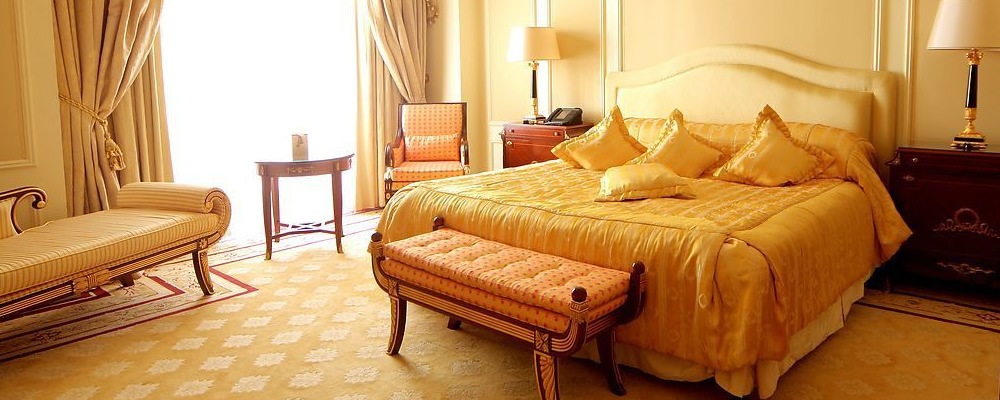
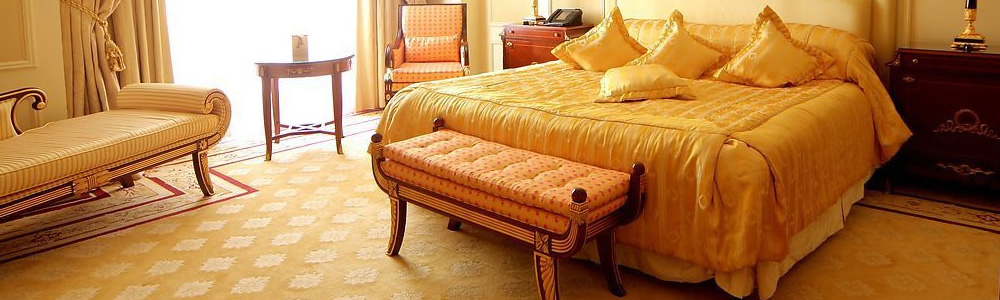
remove showcase; use slider;

diff --git a/scripts/jquery.sliderkit.1.9.2.min.js b/scripts/jquery.sliderkit.1.9.2.min.js
@@ -1,0 +1,30 @@
+(function(b){SliderKit=function(){var a=this;this._init=function(c,d){this.options=b.extend({},this._settings,d);this.cssNames={selected:this.options.cssprefix+"-selected",panel:this.options.cssprefix+"-panel",panels:this.options.cssprefix+"-panels",panelActive:this.options.cssprefix+"-panel-active",panelOld:this.options.cssprefix+"-panel-old",panelsWrapper:this.options.cssprefix+"-panels-wrapper",nav:this.options.cssprefix+"-nav",navClip:this.options.cssprefix+"-nav-clip",navBtn:this.options.cssprefix+
+"-nav-btn",navPrev:this.options.cssprefix+"-nav-prev",navNext:this.options.cssprefix+"-nav-next",btnDisable:this.options.cssprefix+"-btn-disable",btnPause:this.options.cssprefix+"-pause-btn",goPrev:this.options.cssprefix+"-go-prev",goNext:this.options.cssprefix+"-go-next",playBtn:this.options.cssprefix+"-play-btn",goBtns:this.options.cssprefix+"-go-btn"};this.domObj=b(c);this.panels=b("."+this.cssNames.panel,this.domObj);this.allItems=this.panels.size();this.nav=b("."+this.cssNames.nav,this.domObj);
+this.navClip=b("."+this.cssNames.navClip,this.nav);this.arePanels=0<this.allItems?1:0;this.isNavClip=0<this.navClip.size()?1:0;this.arePanels||this.isNavClip||this._errorReport("Error #01",this.options.debug,1);this.domObjHeight=this.domObj.height();this.domObjWidth=this.domObj.width();this.domObjHeight||this.options.freeheight||(this.domObjHeight=this.options.height,this.domObj.css("height",this.domObjHeight),this._errorReport("Error #02",this.options.debug,0));this.domObjWidth||(this.domObjWidth=
+this.options.width,this.domObj.css("width",this.domObjWidth),this._errorReport("Error #02",this.options.debug,0));this.domObj.css("display","block");this.newId=this.prevId=this.currId=0;this.currPanel=null;this.prevPanelStill=this.prevPanel=0;this.firstTime=1;this.scrollActive=0;this.isPlaying=null;this.changeOngoing=!1;this.currLine=1;this.animating=!1;this.panelAnteFns=[];this.panelPostFns=[];this.navAnteFns=[];this.navPostFns=[];this.runningScope=this.nav;this.isNavClip&&this._buildNav();this._buildControls();
+this.arePanels&&(this.panelsBag=b("."+this.cssNames.panels,this.domObj),"sliding"==this.options.panelfx&&this._wrapPanels());this.lineScrollDo=this.arePanels?0:1;this.options.mousewheel&&this.domObj.mousewheel(function(c,d){0<d?a.stepBackward():a.stepForward();return!1});this.options.keyboard&&this.domObj.keyup(function(c){37==c.keyCode?a.stepBackward():39==c.keyCode&&a.stepForward()});this.options.panelclick&&this.arePanels&&this.panelsBag.click(function(){a.stepForward();return!1});this.startId=
+this.options.start>=this.allItems?this.allItems-1:0>this.options.start?0:this.options.start;if(this.options.counter)try{this.Counter()}catch(g){this._errorReport(g,this.options.debug,0)}if(this.imageFx)try{this.imageFx()}catch(f){this._errorReport(f,this.options.debug,0)}if(this.options.delaycaptions)try{this.DelayCaptions(this.options.delaycaptions)}catch(e){this._errorReport(e,this.options.debug,0)}this.changeWithId(this.startId,null);this.options.auto&&(this.autoScrollStart(),this._autoScrollHoverStop());
+if(this.options.timer)try{this.Timer(this.options.timer)}catch(h){this._errorReport(h,this.options.debug,0)}this.arePanels&&!this.options.fastchange&&(this.runningScope=this.domObj.find("."+this.cssNames.panels,"."+this.cssNames.nav));return this};this._settings={cssprefix:"sliderkit",width:500,height:350,start:0,auto:!0,autospeed:4E3,autostill:!1,mousewheel:!1,keyboard:!1,circular:!1,shownavitems:5,navitemshover:!1,navclipcenter:!1,navcontinuous:!1,navscrollatend:!1,navpanelautoswitch:!0,navfx:"sliding",
+navfxbefore:function(){},navfxafter:function(){},scroll:null,scrollspeed:600,scrolleasing:null,panelfx:"fading",panelfxspeed:700,panelfxeasing:null,panelfxfirst:"none",panelfxbefore:function(){},panelfxafter:function(){},panelbtnshover:!1,panelclick:!1,verticalnav:!1,verticalslide:!1,tabs:!1,freeheight:!1,fastchange:!0,counter:!1,delaycaptions:!1,timer:!1,imagefx:!1,debug:!1};this._errorReport=function(a,d,b){d&&alert("Slider Kit error!\nMessage = "+a+" (see doc for details)\nElement id = "+this.domObj.attr("id")+
+"\nElement class = "+this.domObj.attr("class"));if(b)return!1};this._autoScrollHoverStop=function(){this.isPlayBtn||this.options.autostill||this.domObj.hover(function(){null!=a.isPlaying&&a.autoScrollStop()},function(){a.autoScrollStart()});this.options.autostill&&this.domObj.mouseleave(function(){null==a.isPlaying&&a.autoScrollStart()})};this._buildNav=function(){this.navUL=b("ul",this.navClip);this.navLI=b("li",this.navUL);this.navLINum=this.navLI.size();this.arePanels&&(this.navLINum!=this.allItems&&
+1==this.nav.size())&&this._errorReport("Error #03",this.options.debug,1);if(this.options.tabs)this.options.shownavitems=this.allItems;else{var c=function(c){attrVal=a.navLI.css(c);return"auto"!=attrVal&&""!=c&&"0px"!=c?parseInt(attrVal):0},d=this.options.verticalnav?this.nav.height():this.nav.width(),g=this.navLI.outerWidth(!0),f=this.navLI.outerHeight(!0),e=c("margin-left")+c("margin-right"),c=c("margin-top")+c("margin-bottom");this.allItems=this.navLINum;this.options.shownavitems>this.allItems&&
+(this.options.shownavitems=this.navLINum);this.navLIsize=this.options.verticalnav?f:g;this.navULSize=this.navLIsize*this.navLINum;this.navClipSize=this.options.shownavitems*this.navLIsize-(this.options.verticalnav?c:e);this.cssPosAttr=this.options.verticalnav?"top":"left";e=this.options.verticalnav?"height":"width";this.navLI.css({width:this.navLI.width(),height:this.navLI.height()});this.navUL.css(e,this.navULSize+"px");this.navClip.css({width:this.options.verticalnav?g:this.navClipSize,height:this.options.verticalnav?
+this.navClipSize:f});this.options.navclipcenter&&this.navClip.css(this.cssPosAttr,(d-this.navClipSize)/2).css("margin","0");this.allItems>this.options.shownavitems&&(this.scrollActive=!0,null==this.options.scroll||0>this.options.scroll||this.options.scroll>this.allItems)&&(this.options.scroll=this.options.shownavitems);this.navBtns=b("."+this.cssNames.navBtn,this.nav);0<this.navBtns.size()&&this._buildNavButtons()}this.options.navitemshover&&this.arePanels?this.navLI.mouseover(function(){a.changeWithId(b("li",
+b(this).parent()).index(this),b(this))}):(this.arePanels||this.options.navscrollatend)&&this.navLI.click(function(){a.changeWithId(b("li",b(this).parent()).index(this),b(this));return!1})};this._buildNavButtons=function(){this.scrollActive?(this.scrollBtns=!0,this.navBtnPrev=b("."+this.cssNames.navPrev,this.nav),this.navBtnNext=b("."+this.cssNames.navNext,this.nav),this.navBtns.removeClass(this.cssNames.btnDisable),this.navBtnPrev.click(function(){a.navPrev();return!1}),this.navBtnNext.click(function(){a.navNext();
+return!1}),this.options.navcontinuous&&(this.navBtnPrev.mouseover(function(){a.navPrev(!0)}),this.navBtnNext.mouseover(function(){a.navNext(!0)}),this.navBtns.mouseout(function(){a.navStopContinuous()})),this.options.circular||this.navBtnPrev.addClass(this.cssNames.btnDisable)):this.navBtns.addClass(this.cssNames.btnDisable)};this._getNavPos=function(){this.navPos=this.options.verticalnav?this.navUL.position().top:this.navUL.position().left;this.LIbefore=Math.ceil(Math.abs(this.navPos)/this.navLIsize);
+this.LIafter=Math.floor((this.navULSize-Math.abs(this.navPos)-this.navClipSize)/this.navLIsize);0>this.LIafter&&(this.LIafter=0)};this._buildControls=function(){this.playBtn=b("."+this.cssNames.playBtn,this.domObj);this.gBtns=b("."+this.cssNames.goBtns,this.domObj);this.isPlayBtn=0<this.playBtn.size()?1:0;this.goBtns=0<this.gBtns.size()?1:0;this.isPlayBtn&&(this.options.auto&&this.playBtn.addClass(this.cssNames.btnPause),this.playBtn.click(function(){a.playBtn.hasClass(a.cssNames.btnPause)?a.playBtnPause():
+a.playBtnStart();return!1}));this.goBtns&&(this.goBtnPrev=b("."+this.cssNames.goPrev,this.domObj),this.goBtnNext=b("."+this.cssNames.goNext,this.domObj),this.options.panelbtnshover&&(this.gBtns.hide(),b("."+this.cssNames.panels,this.domObj).hover(function(){a.gBtns.fadeIn()},function(){a.gBtns.fadeOut()})),this.goBtnPrev.click(function(){a.stepBackward(b(this));return!1}),this.goBtnNext.click(function(){a.stepForward(b(this));return!1}))};this._wrapPanels=function(){0==b("."+this.cssNames.panelsWrapper,
+this.domObj).size()&&(this.panels.wrapAll('<div class="'+this.cssNames.panelsWrapper+'"></div>'),this.panelsWrapper=b("."+this.cssNames.panelsWrapper,this.panelsBag),this.panelsWrapper.css("position","relative"))};this._change=function(c,d,g,f,e){e&&null!=this.isPlaying&&(this.isPlayBtn&&this.playBtnPause(),this.options.autostill&&a.autoScrollStop());if(c&&c.hasClass(this.cssNames.btnDisable))return!1;e=0;if(!(0<b(":animated",this.runningScope).size()||this.animating)){this.prevId=this.currId;if(null==
+g&&!f)this.currId="-="==d?this.currId+1:this.currId-1;else if(null!=g){g=parseInt(g);this.currId=0>g?0:g>this.allItems-1?this.allItems-1:g;var h=c?c.parent().parent().hasClass(this.cssNames.navClip)?!1:!0:!0}this.goBtns&&this.gBtns.removeClass(this.cssNames.btnDisable);this.options.circular?this.scrollActive||(this.currId==this.allItems&&(this.currId=0),-1==this.currId&&(this.currId=this.allItems-1)):(-1==this.currId&&(this.currId=0,e=1),0==this.currId&&this.goBtns&&this.goBtnPrev.addClass(this.cssNames.btnDisable),
+this.currId==this.allItems&&(this.currId=this.allItems-1,e=1),this.currId==this.allItems-1&&(this.options.auto&&this.autoScrollStop(),this.goBtns&&this.goBtnNext.addClass(this.cssNames.btnDisable)));this.scrollActive&&!e&&this._setNavScroll(f,d,h);this.isNavClip&&this.selectThumbnail(this.currId);(!f||this.options.navpanelautoswitch)&&this.arePanels&&this._animPanel(this.currId,d);this.firstTime&&(this.firstTime=0)}};this._setNavScroll=function(a,d,b){this._getNavPos();var f=a?!0:!1,e=0;if(!a){a=
+Math.abs(this.currId+1-this.LIbefore);var h=this.options.shownavitems-a+1,k=0==this.currId||this.currId==this.allItems-1?1:0;!this.options.navscrollatend||1!=h&&1!=a||(this.firstTime||k)||(e=this.options.scroll-1,f=!0);if(0==h||0==a)f=!0;b&&(0>h&&(h=0),d=this.prevId<this.currId?"-=":"+=",b=Math.abs(this.prevId-this.currId),b-1>h&&"-="==d||b>a&&"+="==d)&&(e=b,f=!0);""==d&&(d=this.prevId!=this.currId||k?this.prevId<this.currId?"-=":"+=":"-="==this.scrollWay?"+=":"-=");this.scrollWay=d}if(f){f=0<e?e:
+this.options.scroll;e="-="==d?this.LIafter:this.LIbefore;f=e<f?e:f;e=f*this.navLIsize;this.newId="-="==d?this.LIbefore+f:this.LIbefore-f+this.options.shownavitems-1;if("-="==d&&this.newId>this.currId||"+="==d&&this.newId<this.currId)this.currId=this.newId;this.options.circular&&(0>=this.LIbefore&&"+="==d?(d="-=",this.currId=this.allItems-1,e=this.LIafter/this.options.scroll*this.navLIsize*this.options.scroll):0==this.LIafter&&"-="==d&&(d="+=",this.currId=0,e=Math.abs(this.navPos)));this._animNav(d,
+e)}};this._animPanel=function(c,d){this.currPanel=this.panels.eq(c);this.prevPanelStill=this.panels.eq(this.prevId);var g=function(){b.isFunction(a.options.panelfxafter)&&a.options.panelfxafter();a._runCallBacks(a.panelPostFns)};if(!this.currPanel.hasClass(this.cssNames.panelActive)){if(this.firstTime){this.panelTransition=this.options.panelfxfirst;var f=1}else{var e=this.options.freeheight&&"fading"==this.options.panelfx?"tabsfading":"none";this.panelTransition=this.options.freeheight?e:this.options.panelfx}b.isFunction(a.options.panelfxbefore)&&
+a.options.panelfxbefore();this._runCallBacks(this.panelAnteFns);this._panelTransitions[this.panelTransition](d,f,g)}};this._animNav=function(c,d){b.isFunction(a.options.navfxbefore)&&a.options.navfxbefore();a._runCallBacks(a.navAnteFns);this._navTransitions[this.options.navfx](c,d,function(){!a.options.circular&&a.scrollBtns&&(a.navBtns.removeClass(a.cssNames.btnDisable),a._getNavPos(),0>=a.LIbefore?a.navBtnPrev.addClass(a.cssNames.btnDisable):0>=a.LIafter&&a.navBtnNext.addClass(a.cssNames.btnDisable));
+a.scrollcontinue?setTimeout(function(){"-="==a.scrollcontinue?a.navPrev():a.navNext()},0):b.isFunction(a.options.navfxafter)&&a.options.navfxafter();a._runCallBacks(a.navPostFns)})};this._runCallBacks=function(a){b.each(a,function(a,c){b.isFunction(c)&&c()})};this._clearCallBacks=function(a){a.length=0};this._panelTransitions={none:function(c,b,g){a.panels.removeClass(a.cssNames.panelActive).hide();a.currPanel.addClass(a.cssNames.panelActive).show();g()},sliding:function(c,d,g){""==c&&(c=a.prevPanel<
+a.currId?"-=":"+=");a.prevPanel=a.currId;d="-="==c?"+":"-";var f=a.options.verticalslide?"top":"left",e=a.options.verticalnav?a.domObjHeight:a.domObjWidth;c="top"==f?{top:c+e}:{left:c+e};a.oldPanel=b("."+a.cssNames.panelOld,a.domObj);a.activePanel=b("."+a.cssNames.panelActive,a.domObj);a.panels.css(f,"0");a.oldPanel.removeClass(a.cssNames.panelOld).hide();a.activePanel.removeClass(a.cssNames.panelActive).addClass(a.cssNames.panelOld);a.currPanel.addClass(a.cssNames.panelActive).css(f,d+e+"px").show();
+a.panelsWrapper.stop(!0,!0).css(f,"0").animate(c,a.options.panelfxspeed,a.options.panelfxeasing,function(){g()})},fading:function(c,d,g){d?a.panels.hide():a.currPanel.css("display","none");b("."+a.cssNames.panelOld,a.domObj).removeClass(a.cssNames.panelOld);b("."+a.cssNames.panelActive,a.domObj).stop(!0,!0).removeClass(a.cssNames.panelActive).addClass(a.cssNames.panelOld);a.currPanel.addClass(a.cssNames.panelActive).animate({opacity:"show"},a.options.panelfxspeed,a.options.panelfxeasing,function(){g()})},
+tabsfading:function(c,b,g){a.panels.removeClass(a.cssNames.panelActive).hide();a.currPanel.fadeIn(a.options.panelfxspeed,function(){g()})}};this._navTransitions={none:function(c,b,g){a.navUL.css(a.cssPosAttr,("-="==c?a.navPos-b:a.navPos+b)+"px");g()},sliding:function(c,b,g){a.navUL.animate("left"==a.cssPosAttr?{left:c+b}:{top:c+b},a.options.scrollspeed,a.options.scrolleasing,function(){g()})}};this.playBtnPause=function(){this.playBtn.removeClass(this.cssNames.btnPause);this.autoScrollStop()};this.playBtnStart=
+function(){this.playBtn.addClass(a.cssNames.btnPause);this.autoScrollStart()};this.autoScrollStart=function(){var a=this;this.isPlaying=setInterval(function(){a._change(null,"-=",null,a.lineScrollDo,null)},a.options.autospeed)};this.autoScrollStop=function(){clearTimeout(this.isPlaying);this.isPlaying=null};this.changeWithId=function(a,b){this._change(b,"",a,0,1)};this.stepBackward=function(b){this._change(b,"+=",null,a.lineScrollDo,1)};this.stepForward=function(b){this._change(b,"-=",null,a.lineScrollDo,
+1)};this.navPrev=function(b){b&&(a.scrollcontinue="-=");this._change(this.navBtnPrev,"+=",null,1,1)};this.navNext=function(b){b&&(a.scrollcontinue="+=");this._change(this.navBtnNext,"-=",null,1,1)};this.navStopContinuous=function(){a.scrollcontinue=""};this.selectThumbnail=function(a){b("."+this.cssNames.selected,this.navUL).removeClass(this.cssNames.selected);this.navLI.eq(a).addClass(this.cssNames.selected)}};b.fn.sliderkit=function(a){return this.each(function(){b(this).data("sliderkit",(new SliderKit)._init(this,
+a))})}})(jQuery);

diff --git a/scripts/layout_header_script.js b/scripts/layout_header_script.js
@@ -65,89 +65,6 @@ $(function(){
 	$(window).bind('resize',function(){
 		if ($('#leftprolist').hasClass('fixed')) $('#leftprolist').css({left:$('#header').position().left-document.body.scrollLeft});
 	});
-	if ($("#main_case").length == 1) {
-		$.getJSON('/products/catelog.json', function(CAT){
-			window.CAT = CAT;
-			window.CASE = {};
-			var reset=function(){
-				$('#showcase').find('.subcaselist, .subcaselist2').addClass('hidden');
-				$('#showcase .showcase_details').fadeOut(200, function(){$(this).addClass('hidden');});
-				$('#showcase .bg').fadeTo(200, 1.0);
-				$('#main_case a').removeClass('current');
-				$('#main_case .indicator').removeClass('indicator_wht');
-			};
-			$('#main_case a').each(function(){
-				window.CASE[$(this).data('category')]=$(this).text();
-				$(this).click(function(){
-					return false;
-				});
-				$(this).hover(function(){
-					$('#main_case .indicator').removeClass('indicator_wht');
-					$('.indicator', this).addClass('indicator_wht');
-				});
-				$(this).hoverIntent(function(){
-					$('#showcase').css({'background-color':'#000'});
-					$('#showcase .bg').fadeTo(200, 0.5);
-					$('#main_case a').removeClass('current');
-					window.clearTimeout(window.sto);
-					window.clearTimeout(window.sto2);
-					window.clearTimeout(window.sto3);
-					var sublist=$('#showcase .subcaselist'), sublist2=$('#showcase .subcaselist2');
-					var cat=$(this).data('category');
-					sublist.empty();
-					sublist2.empty();
-					for (i=0; i<CAT[cat].length; i++) {
-						if (i==27) {
-							CAT[cat][i].name="More...";
-						} else if (i>27) {
-							break;
-						}
-						var alink=$('<a class="sd" data-image="'+CAT[cat][i].image+'" href="'+CAT[cat][i].link+'">'+CAT[cat][i].name+'</a>');
-						alink.hover(function(){
-							$('#main_case a[data-category="'+cat+'"]').addClass('current');
-						});
-						alink.hoverIntent(function(){
-							window.clearTimeout(window.sto);
-							window.clearTimeout(window.sto2);
-							window.clearTimeout(window.sto3);
-							$('#showcase .showcase_details').empty().append('<a href="'+$(this).attr('href')+'"><img src="{{ site.image_cdn }}/'+$(this).data('image')+'" /></a><h3>'+window.CASE[cat]+'<br />'+$(this).text()+'</h3>');
-							if ($('#showcase .showcase_details').hasClass('hidden')) {
-								$('#showcase .showcase_details').removeClass('hidden').hide().fadeIn(200);
-							}
-						}, function(){
-							window.sto2=window.setTimeout(reset, 1000);
-						});
-						$('<li />').append(alink).appendTo(i<14 ? sublist : sublist2);
-					}
-					sublist.removeClass('hidden').css({left: $('#main_case').position().left+$('#main_case').width()-5});
-					if (sublist2.children().length==0) {
-						sublist2.addClass('hidden');
-					} else {
-						sublist2.removeClass('hidden').css({left: sublist.position().left+sublist.width()-5});
-					}
-					var top=$(this).position().top;
-					if (top+sublist.height() > $('#showcase').height()) top = $('#showcase').height() - sublist.height() - 20;
-					if (top < 20) top=20;
-					sublist.css({top: top});
-					if (!$('#showcase .showcase_details').hasClass('hidden')) {
-						window.sto3=setTimeout(function(){
-							$('#showcase .showcase_details').fadeOut(200, function(){$(this).addClass('hidden');});
-						}, 1000);
-					}
-				}, function(){
-					//$(this).removeClass('current');
-					window.sto=window.setTimeout(function(){
-						var mainlisthovers=$('#main_case').find('a:hover').length;
-						var sublisthovers=$('#showcase').find('.subcaselist, .subcaselist2').find('a:hover').length;
-						if (mainlisthovers == 0 && sublisthovers == 0) {
-							reset();
-						}
-					}, 1000);
-				});
-				$(this).append('<div class="indicator"></div>');
-			});
-		});
-	}
 	if ($('.anchors').length>0) {
 		$('.clicktotop').bind('click',function(){window.location.hash='';window.scrollTo(0, 0);});
 		$(document).bind('ready scroll',function() {
@@ -170,6 +87,13 @@ $(function(){
 		});
 	}
 	$('.clicktolist').click(function(){location.href='/products/';});
+  
+  1 == $("#slider").length && $("#slider").sliderkit({
+      auto: !0,
+      circular: !0,
+      panelfx: "sliding",
+      autospeed: 5E3
+  });
 });
 function f_scrollTop() {
 	return f_filterResults (

diff --git a/css/layout_stylesheets.css b/css/layout_stylesheets.css
@@ -63,97 +63,7 @@ font-weight: bold;
 .nav ul li a:hover, .nav ul li a.current {
 color: #ed3237;
 }
-.showcase {
-width: 1000px;
-height: 400px;
-overflow: hidden;
-position: relative;
-}
-.showcase .bg {
-width: 1000px;
-height: 400px;
-overflow: hidden;
-background: url(../images/middlebg2.jpg) no-repeat 0 0;
-position: absolute;
-top: 0;
-left: 0;
-z-index: 1;
-}
-.showcase_list {
-width: 228px;
-list-style: none;
-box-shadow: 0 0 6px 1px #333;
-position: absolute;
-top: 20px;
-left: 20px;
-z-index: 10;
-}
-.showcase_list li {
-height: 26px;
-overflow: hidden;
-}
-.showcase_list a {
-display: block;
-background: url(../images/mgreygrad.png) repeat-x 0 0;
-height: 26px;
-line-height: 26px;
-text-indent: 10px;
-font-size: 14px;
-text-decoration: none;
-color: #000;
-opacity: 0.96;
-position: relative;
-}
-.showcase_list a:hover, .showcase_list a.current {
-background: #D71920;
-color: #fff;
-opacity: 1.0;
-}
-.showcase_list a div.indicator {
-background: url(../images/indicator.png) no-repeat 0 0;
-width: 8px;
-height: 8px;
-overflow: hidden;
-font-size: 0;
-position: absolute;
-top: 9px;
-left: 210px;
-}
-.showcase_list a div.indicator_wht, .showcase_list a.current div.indicator {
-background: url(../images/indicator_wht.png) no-repeat 0 0;
-}
-.subcaselist {
-z-index: 9;
-}
-.subcaselist a {
-text-indent: 15px;
-}
-.subcaselist2 {
-z-index: 8;
-}
-.subcaselist2 a {
-text-indent: 15px;
-}
-.showcase_details img {
-width: 240px;
-height: 240px;
-}
-.showcase_details h3 {
-font-size: 16px;
-}
-.showcase_details {
-position: absolute;
-top: 20px;
-left: 719px;
-padding: 10px;
-background: #FFF;
-box-shadow: 0 0 10px #333;
-text-align: center;
-opacity: 0.95;
-overflow: hidden;
-width: 240px;
-z-index: 3;
-}
+
 .divide {
 margin: 8px 0;
 }
@@ -589,3 +499,29 @@ filter:alpha(opacity=0);
 #toTop:active, #toTop:focus {
 outline:none;
 }
+/*sliderkit-core.css*/
+.photoslider-bullets{width:1000px;height:300px;}
+.photoslider-bullets .sliderkit-nav{position:absolute;top:275px;right:10px;}
+* html .photoslider-bullets .sliderkit-nav {right:auto;left:900px;}
+.photoslider-bullets .sliderkit-nav-clip ul li{float:left;margin:0 2px 0 0;}
+.photoslider-bullets .sliderkit-nav-clip ul li a{width:16px;height:16px;background:#fff;}
+.photoslider-bullets .sliderkit-nav-clip ul li.sliderkit-selected a{background:#DB291D;}
+.sliderkit{display:none;position:relative;overflow:hidden;text-align:left;}
+.sliderkit a,
+.sliderkit a:hover{text-decoration:none;}
+.sliderkit a:focus{outline:1px dotted #000;}
+.sliderkit img{border:0;}
+.sliderkit .sliderkit-nav{z-index:10;position:absolute;text-align:center;}
+.sliderkit .sliderkit-nav-clip{position:relative;overflow:hidden;margin:0 auto;}
+.sliderkit .sliderkit-nav-clip ul{position:relative;left:0;top:0;list-style:none;margin:0;padding:0;}
+.sliderkit .sliderkit-nav-clip ul li{float:left;}
+.sliderkit .sliderkit-nav-clip ul li a{display:block;overflow:hidden;}
+.sliderkit .sliderkit-btn{z-index:10;}
+.sliderkit .sliderkit-panel{z-index:1;position:absolute;overflow:hidden;}
+.sliderkit .sliderkit-panel-active{z-index:5;}
+.sliderkit .sliderkit-panel-old{z-index:4;}
+.sliderkit .sliderkit-panel .sliderkit-panel-textbox{position:absolute;z-index:1;}
+.sliderkit .sliderkit-panel .sliderkit-panel-text{position:absolute;z-index:3;top:0;left:0;}
+.sliderkit .sliderkit-panel .sliderkit-panel-overlay{position:absolute;z-index:2;top:0;left:0;}
+.sliderkit .sliderkit-count{position:absolute;top:5px;right:5px;z-index:10;padding:5px;color:#fff;background:#000;}
+.sliderkit .sliderkit-timer{position:absolute;top:0;left:0;z-index:10;height:3px;background:#ccc;}

diff --git a/default.html b/default.html
@@ -1,16 +1,27 @@
 ---
 layout: default
 permalink: /index.html
+more_scripts:
+- scripts/jquery.sliderkit.1.9.2.min.js
 ---
-		<div id="showcase" class="showcase">
-			<div class="bg"></div>
-			<ul id="main_case" class="showcase_list">{% for category in site.categories_for_products %}{% capture cat %}{{ category[0] }}{% endcapture %}{% for post in site.categories[cat] %}{% if forloop.last %}
-				<li><a{% if cat == current_category %} class="current"{% capture current_category_name %}{{ category[1] }}{% endcapture %}{% endif %} href="{{ post.url }}" data-category="{{ category[0] }}">{{ category[1] }}</a></li>{% endif %}{% endfor %}{% endfor %}
-			</ul>
-			<ul class="showcase_list subcaselist hidden"></ul>
-			<ul class="showcase_list subcaselist2 hidden"></ul>
-			<div class="showcase_details hidden"></div>
-		</div>
+  	<div id="slider" class="sliderkit photoslider-bullets">
+  		<div class="sliderkit-nav">
+  			<div class="sliderkit-nav-clip">
+  				<ul>
+  					<li><a href="#"></a></li>
+  					<li><a href="#"></a></li>
+  				</ul>
+  			</div>
+  		</div>
+  		<div class="sliderkit-panels">
+        <div class="sliderkit-panel">
+  				<a href="#"><img alt="QNN Safe" src="/images/middlebg2.jpg" width="1000" height="300" /></a>
+  			</div>
+        <div class="sliderkit-panel">
+  				<a href="#"><img alt="QNN Safe" src="/images/middlebg.jpg" width="1000" height="300" /></a>
+  			</div>
+  		</div>
+  	</div>
 		<div class="divide">
 			<div class="divide_item">
 				<a href="/about/"><img src="/images/qnnimg.png" /><em>About Us</em></a>
